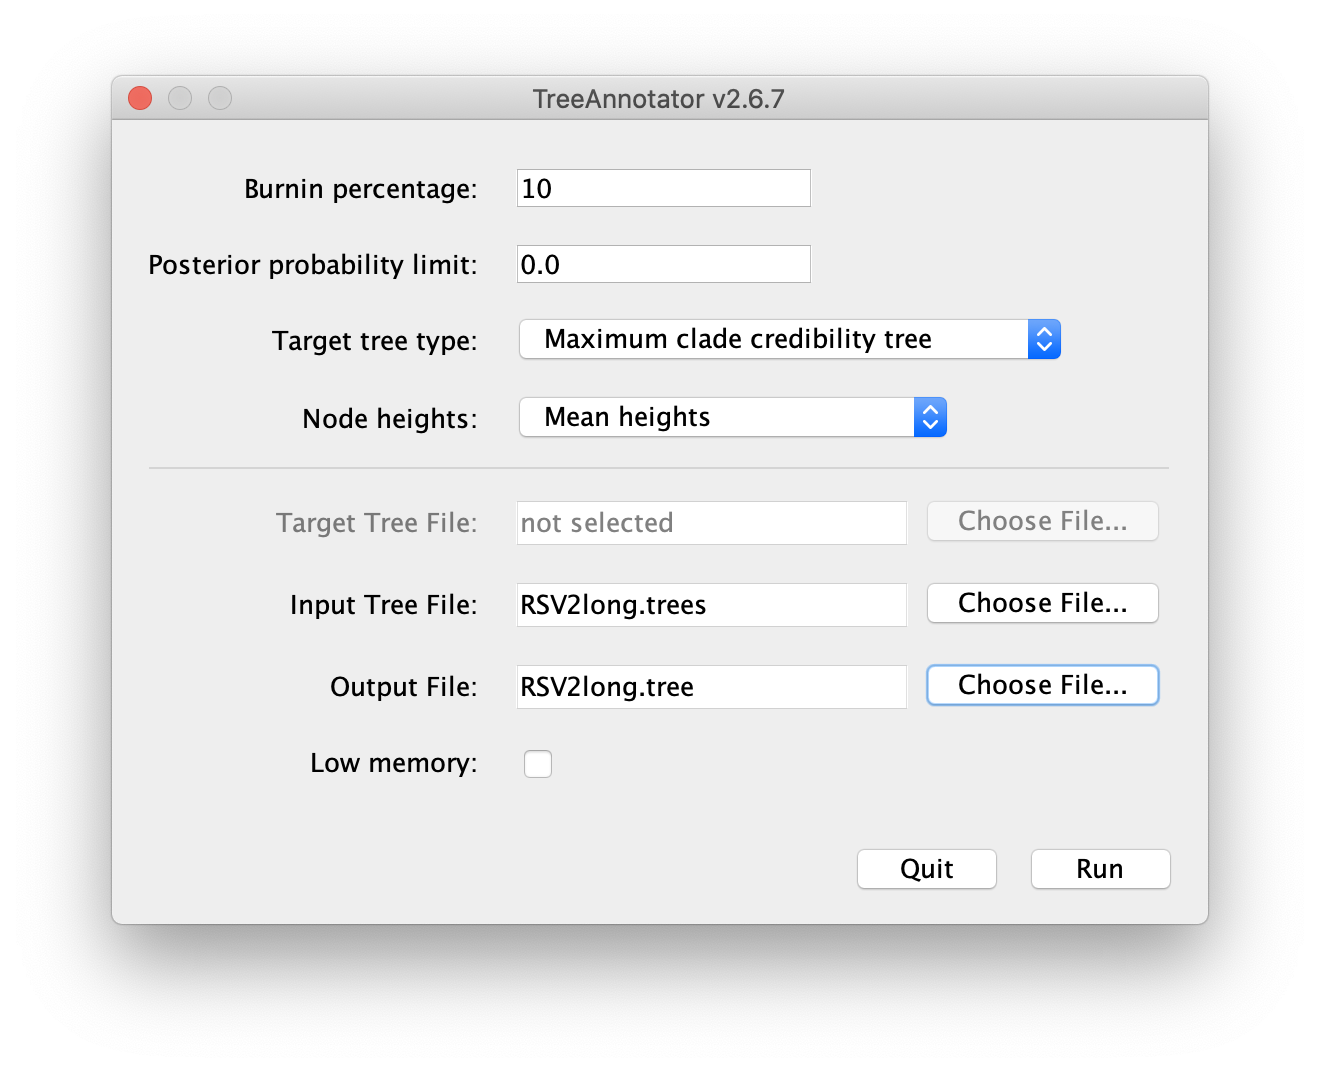
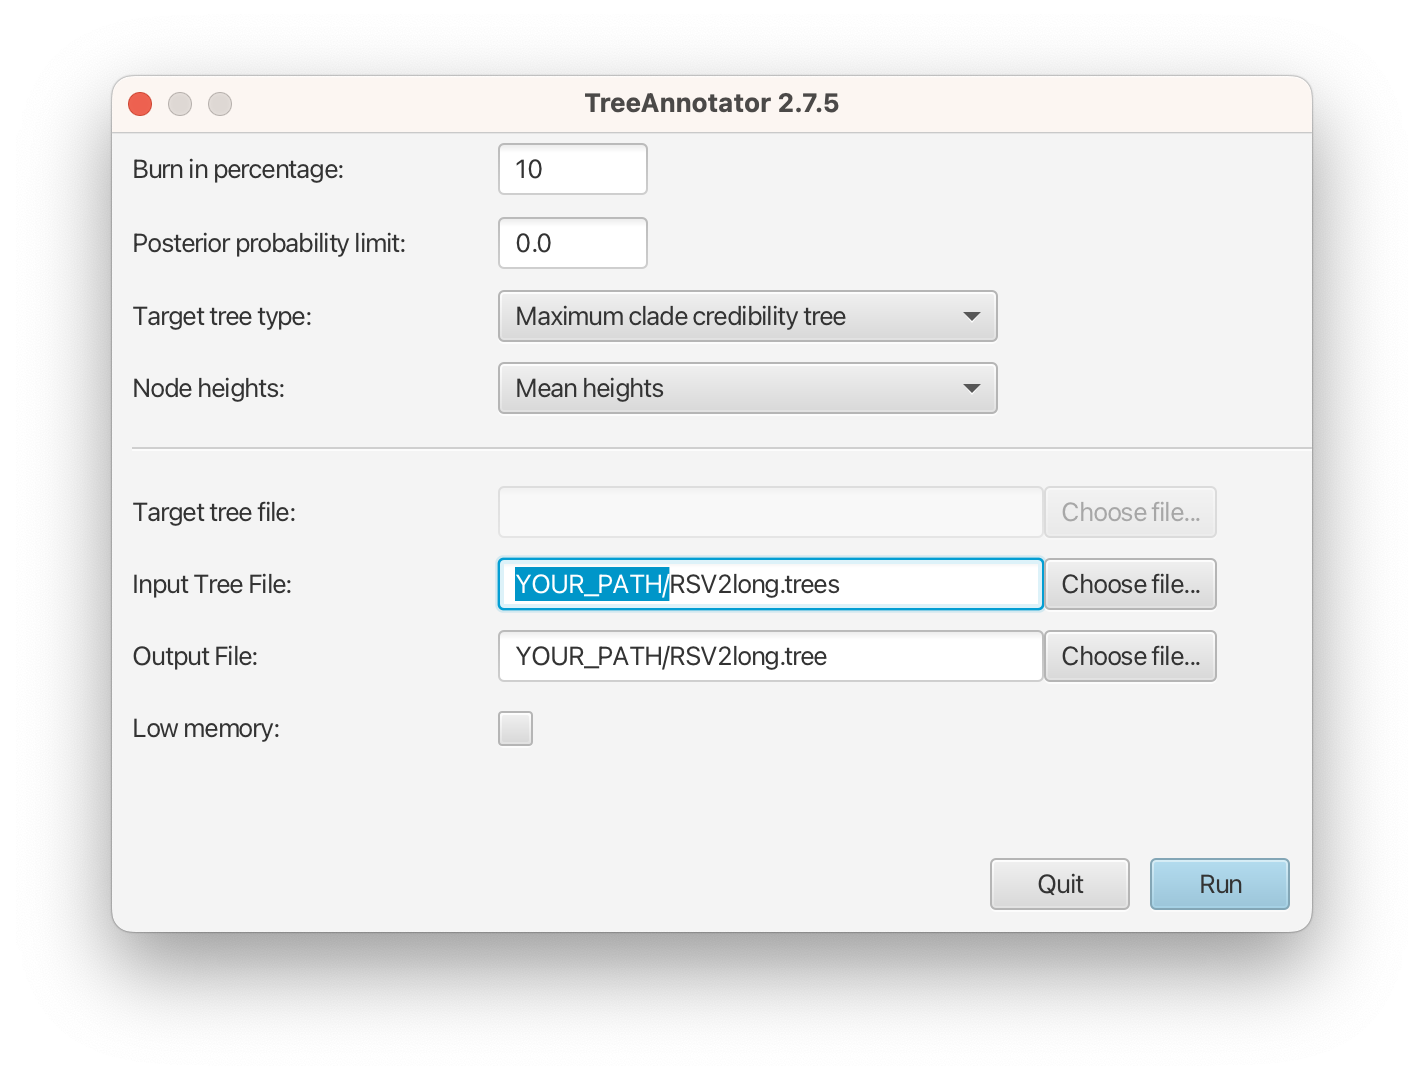
update RSV2

diff --git a/tutorials/time-stamped-data.md b/tutorials/time-stamped-data.md
@@ -53,9 +53,6 @@ analyses.
 {% include_relative templates/locate-data.md df='RSV2' 
                     df_link='https://raw.githubusercontent.com/LinguaPhylo/linguaPhylo/master/tutorials/data/RSV2.nex' %}
 
-This .nex file can also be found in the ```examples/nexus``` folder,
-where BEAST 2 was installed.
-
 #### Multiple partitions
 
 Our molecular alignment corresponds to a 629-bp coding sequence of
@@ -71,7 +68,7 @@ corresponding to the first, second and third codon positions.
 					
 {% include_relative templates/age-direction.md %}
 
-## Constructing the scripts in LPhy Studio
+## Inputting a script into LPhy Studio
 
 {% include_relative templates/lphy-scripts.md %}
 
@@ -154,9 +151,8 @@ for each nucleotide);
 3. `r`, the relative substitution rates (with 3 dimensions, one for
    each partition);  
 4. `μ`, the global (mean) clock rate;  
-5. `Θ`, the effective population size (with as many dimensions as
-   there are branches in the tree);  
-6. `ψ`, the time-scaled (i.e., in absolute time) phylogenetic tree.
+5. `Θ`, the effective population size;  
+6. `ψ`, the time-scaled phylogenetic tree, where the time unit is years.
 
 {::nomarkdown}
   {{ lphy_model | append: "<br>" }}
@@ -198,17 +194,35 @@ Let us look at the whole thing:
 
 {% include_relative templates/lphy-beast.md lphy="RSV2" %}
 
+For example, on a Mac, after replacing all "x" with the correct version number, 
+you can execute the following `lphybeast` command in the terminal to launch LPhyBEAST:
+
+```bash
+# go to the folder containing lphy script
+cd /Applications/lphystudio-1.x.x/tutorials
+# run lphybeast
+'/Applications/BEAST 2.7.x/bin/lphybeast' RSV2.lphy
 ```
-# BEAST_DIR="/Applications/BEAST2"
-$BEAST_DIR/bin/lphybeast RSV2.lphy 
+
+Then, run `lphybeast.bat` on a Windows terminal like this:
+
+```dos
+# go to the subfolder containing lphy script
+cd "C:\Users\<YourUserName>\Documents\tutorials"
+# run lphybeast
+"C:\Program Files\BEAST2.7.x\bat\lphybeast.bat" RSV2.lphy
 ```
+
+__Tips:__ if you are not familiar with inputting valid paths in the command line, 
+here is our [Tech Help](tech-help.md/#obtaining-the-valid-file-paths-in-the-terminal) that may help you.
+
 
 ### Running BEAST 2
 
 {% include_relative templates/run-beast.md xml="RSV2.xml" %}
 
 ```
-                         BEAST v2.6.7, 2002-2020
+                        BEAST v2.7.5, 2002-2023
              Bayesian Evolutionary Analysis Sampling Trees
                        Designed and developed by
  Remco Bouckaert, Alexei J. Drummond, Andrew Rambaut & Marc A. Suchard
@@ -241,29 +255,29 @@ Gerton Lunter, Sidney Markowitz, Vladimir Minin, Michael Defoin Platel,
                                Thanks to:
           Roald Forsberg, Beth Shapiro and Korbinian Strimmer
 
-Random number seed: 1630288622480
+Random number seed: 1690761638808
     ...
 
     ...
-         950000     -6090.8619     -5484.6314      -606.2305         0.4475         0.2692         0.1000         0.1831         0.3183         0.4213         0.0826         0.1776         0.3530         0.3155         0.0702         0.2611         8.2537         8.5243        10.1785         0.7057         0.9198         1.3729         0.0020        38.8407 2m34s/Msamples
-        1000000     -6084.2226     -5480.6365      -603.5861         0.5015         0.2429         0.0847         0.1706         0.2456         0.4702         0.1013         0.1828         0.3366         0.3591         0.0873         0.2168         6.4508        10.1371         9.5392         0.6864         1.0965         1.2155         0.0022        35.9676 2m34s/Msamples
+         950000     -6087.2825     -5472.3274      -614.9550         0.4757         0.2427         0.0811         0.2003         0.3013         0.4030         0.1153         0.1802         0.3066         0.4051         0.0690         0.2192         6.3611         8.3711        11.8388         0.7467         0.9401         1.3119         0.0020        43.5413 1m10s/Msamples
+        1000000     -6086.6790     -5492.1138      -594.5652         0.5164         0.2214         0.0844         0.1776         0.2826         0.4603         0.0982         0.1587         0.3159         0.3883         0.0789         0.2167         6.2125         9.8228        12.0430         0.7304         0.8693         1.3989         0.0022        36.3590 1m10s/Msamples
 
-Operator                                      Tuning    #accept    #reject      Pr(m)  Pr(acc|m)
-ScaleOperator(Theta.scale)                   0.61008       1298       3181    0.00450    0.28980 
-ScaleOperator(kappa.scale)                   0.47919       2976       6630    0.00970    0.30981 
-ScaleOperator(mu.scale)                      0.77528       1071       3560    0.00450    0.23127 
-UpDownOperator(muUppsiDownOperator)          0.94041       5481     130154    0.13497    0.04041 Try setting scaleFactor to about 0.97
-DeltaExchangeOperator(pi_0.deltaExchange)    0.12380       1763       7805    0.00970    0.18426 
-DeltaExchangeOperator(pi_1.deltaExchange)    0.14501       1362       8290    0.00970    0.14111 
-DeltaExchangeOperator(pi_2.deltaExchange)    0.10881       1757       8020    0.00970    0.17971 
-Exchange(psi.narrowExchange)                       -      33869     100180    0.13424    0.25266 
-ScaleOperator(psi.rootAgeScale)              0.76570        567       3843    0.00450    0.12857 
-ScaleOperator(psi.scale)                     0.90191       3141     131241    0.13424    0.02337 Try setting scaleFactor to about 0.95
-SubtreeSlide(psi.subtreeSlide)               4.50313      18248     116199    0.13424    0.13573 
-Uniform(psi.uniform)                               -      72184      61788    0.13424    0.53880 
-Exchange(psi.wideExchange)                         -        318     133559    0.13424    0.00238 
-WilsonBalding(psi.wilsonBalding)                   -        764     133396    0.13424    0.00569 
-DeltaExchangeOperator(r.deltaExchange)       0.30317       1619       5737    0.00730    0.22009 
+Operator                                                                    Tuning    #accept    #reject      Pr(m)  Pr(acc|m)
+ScaleOperator(Theta.scale)                                                 0.60746       1349       3173    0.00450    0.29832 
+ScaleOperator(kappa.scale)                                                 0.46834       2790       6812    0.00970    0.29056 
+ScaleOperator(mu.scale)                                                    0.78815       1139       3342    0.00450    0.25418 
+beast.base.inference.operator.UpDownOperator(muUppsiDownOperator)          0.91110       5756     129034    0.13497    0.04270 Try setting scaleFactor to about 0.955
+beast.base.inference.operator.DeltaExchangeOperator(pi_0.deltaExchange)    0.12309       1769       7818    0.00970    0.18452 
+beast.base.inference.operator.DeltaExchangeOperator(pi_1.deltaExchange)    0.13164       1562       8115    0.00970    0.16141 
+beast.base.inference.operator.DeltaExchangeOperator(pi_2.deltaExchange)    0.16248       1059       8446    0.00970    0.11142 
+Exchange(psi.narrowExchange)                                                     -      34229     100430    0.13424    0.25419 
+ScaleOperator(psi.rootAgeScale)                                            0.70177        598       3984    0.00450    0.13051 
+ScaleOperator(psi.scale)                                                   0.87726       3442     130335    0.13424    0.02573 Try setting scaleFactor to about 0.937
+SubtreeSlide(psi.subtreeSlide)                                            26.63974       4626     130081    0.13424    0.03434 Try decreasing size to about 13.32
+Uniform(psi.uniform)                                                             -      72553      61985    0.13424    0.53928 
+Exchange(psi.wideExchange)                                                       -        357     133871    0.13424    0.00266 
+WilsonBalding(psi.wilsonBalding)                                                 -        795     133107    0.13424    0.00594 
+beast.base.inference.operator.DeltaExchangeOperator(r.deltaExchange)       0.31697       1511       5933    0.00730    0.20298 
 
      Tuning: The value of the operator's tuning parameter, or '-' if the operator can't be optimized.
     #accept: The total number of times a proposal by this operator has been accepted.
@@ -272,8 +286,9 @@ DeltaExchangeOperator(r.deltaExchange)       0.30317       1619       5737    0.
   Pr(acc|m): The acceptance probability (#accept as a fraction of the total proposals for this operator).
 
 
-Total calculation time: 154.759 seconds
-End likelihood: -6084.222697270579
+Total calculation time: 72.275 seconds
+End likelihood: -6086.679077440407
+Done!
 ```
 
 ### Analysing BEAST 2's output
@@ -344,18 +359,20 @@ estimates of ESS unreliable.
 Let us try to fix this low ESS issue by running the MCMC chain for longer.
 We will set the chain length to 20,000,000, but still log the same
 number of samples (2,000).
-You can now run _LPhyBEAST_ again, this time with the `-l` argument
-to create a new .xml file:
+You can now run _LPhyBEAST_ again create a new .xml file:
 
 ```
-# MY_SCRIPT_PATH=~/WorkSpace/linguaPhylo/tutorials/
-$BEAST_DIR/bin/lphybeast -wd $MY_SCRIPT_PATH -l 20000000 -o RSV2long.xml RSV2.lphy
+$BEAST_DIR/bin/lphybeast -l 20000000 -o RSV2long.xml RSV2.lphy
 ```
 
-Now run BEAST 2 again. It may take about half an hour to complete using modern computers.  
-If you do not want to wait, you can download the 
-[RSV2long.log and RSV2long.trees](https://github.com/LinguaPhylo/linguaPhylo.github.io/tree/master/tutorials/time-stamped-data/RSV2)
-completed by running the longer MCMC chain.
+Two extra arguments: 
+- `-l` changes the MCMC chain length (default to 1 million) in the XML;
+- `-o` replaces the output file name (default to use the same file steam as the lphy input file).
+
+Now run BEAST 2 with the new XML again. 
+It may take about half an hour to complete using modern computers.  
+If you do not want to wait, you can download the completed [log and tree files](#xML-and-log-files) 
+by running the longer MCMC chain.
 
 Load the new log file into Tracer after it is finished (you can leave the old one loaded for comparison).
 Click on the "Trace" tab and look at the raw trace plot.
@@ -490,7 +507,18 @@ In what year did the common ancestor of all RSVA viruses sampled live? What is t
 
 {% include_relative templates/programs-used.md %}
 
-## Useful Links
+
+## XML and log files
+
+- [RSV2.xml](RSV2short/RSV2.xml)
+- [RSV2.log](RSV2short/RSV2.log)
+- [RSV2.trees](RSV2short/RSV2.trees)
+- [RSV2long.xml](RSV2/RSV2long.xml)
+- [RSV2long.log](RSV2/RSV2long.log)
+- [RSV2long.trees](RSV2/RSV2long.trees)
+
+
+## Useful links
 
 {% include_relative templates/links.md %}
 

diff --git a/tutorials/templates/lphy-scripts.md b/tutorials/templates/lphy-scripts.md
@@ -7,7 +7,9 @@ These tasks are executed according to an LPhy script the user types
 If you are new to LPhy, we recommend you to read this [introduction](https://linguaphylo.github.io/about/) first, 
 before you continue on this tutorial. 
 
-Please note if you are working in LPhyStudio, 
+You can input a script into LPhy Studio either by using the `File` menu 
+or by directly typing or pasting the script code into the console in LPhy Studio.
+Please note if you are working in the console, 
 you __do not__ need to add `data` and `model` keywords and curly brackets to define the code blocks.
 We are supposed to add the lines without the `data {  }` and `model {  }` to the command line console 
 at the bottom of the window, where the `data` and `model` tabs in the GUI are used to specify 
